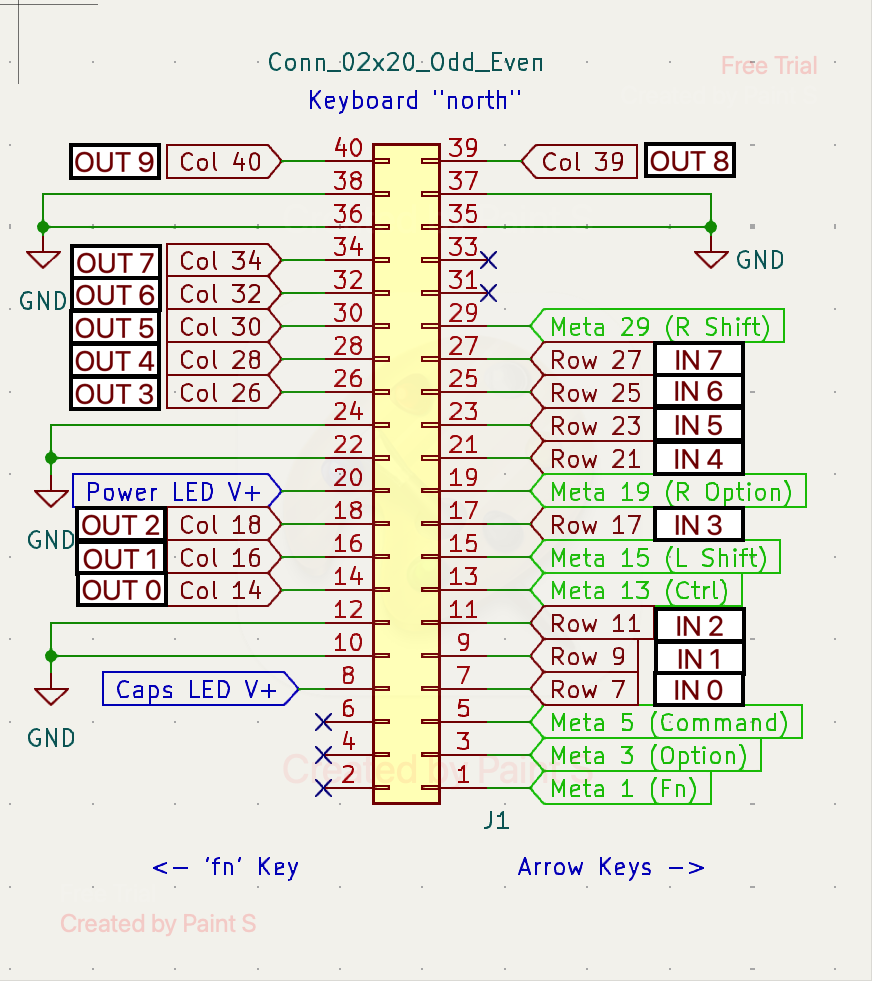
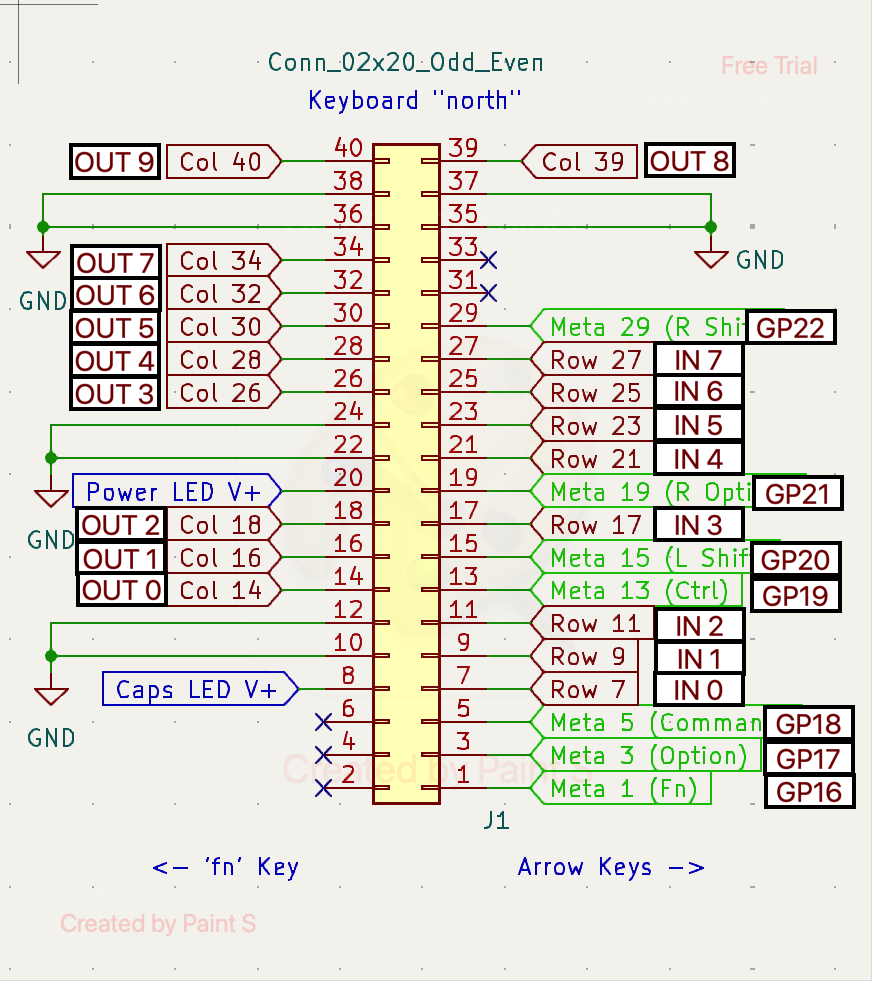
finaly keyboard works

diff --git a/pibookintosh.c b/pibookintosh.c
@@ -9,13 +9,14 @@
 /* Pin definitions */
 #define LED_PIN           GP25
 #define COL_PINS          {GP6, GP7, GP8, GP9, GP10, GP11, GP12, GP13}
-#define META_PINS         {GP14, GP15, GP16, GP17, GP18, GP19, GP20}
+#define META_PINS         {GP16, GP17, GP18, GP19, GP20, GP21, GP22}
 #define NUM_COLS          8
 #define NUM_META_KEYS     7
 
 static const pin_t column_pins[NUM_COLS] = COL_PINS;
 static const pin_t meta_pins[NUM_META_KEYS] = META_PINS;
 static matrix_row_t pibookintosh_matrix[MATRIX_ROWS] __attribute__((used));
+static matrix_row_t meta_row = 0;
 
 #define ACTIVE_HIGH true
 #define ACTIVE_LOW false
@@ -26,6 +27,7 @@ static matrix_row_t pibookintosh_matrix[MATRIX_ROWS] __attribute__((used));
 
 static uint8_t caps_lock_status = 0;
 static uint8_t power_led_status = 0;
+static bool power_led_hid_controlled = false;  // Track if LED is controlled via HID
 
 /* ===== Helper Functions ===== */
 
@@ -42,7 +44,7 @@ void pibookintosh_pre_init_kb(void) {
 }
 
 /* Read column inputs from Pico GPIO */
-static matrix_row_t read_cols(bool invert) {
+static matrix_row_t _read_cols(bool invert) {
     matrix_row_t cols = 0;
     for (uint8_t i = 0; i < NUM_COLS; i++) {
         if (gpio_read_pin(column_pins[i])) {
@@ -76,7 +78,7 @@ void pibookintosh_matrix_init(void) {
     
     // Initialize meta-key pins as inputs
     for (uint8_t i = 0; i < NUM_META_KEYS; i++) {
-        gpio_set_pin_input_low(meta_pins[i]);
+        gpio_set_pin_input_high(meta_pins[i]);
     }
     
     // Clear matrix
@@ -109,7 +111,7 @@ uint8_t pibookintosh_matrix_scan(void) {
         wait_us(30);
         
         // Read columns
-        matrix_row_t cols = read_cols(ACTIVE_HIGH);
+        matrix_row_t cols = _read_cols(ACTIVE_HIGH);
         
         // Check if state changed
         if (pibookintosh_matrix[row] != cols) {
@@ -117,15 +119,30 @@ uint8_t pibookintosh_matrix_scan(void) {
             changed = true;
         }
     }
+
+    // Scan meta keys into virtual row
+    matrix_row_t new_meta = 0;
+    for (uint8_t i = 0; i < NUM_META_KEYS; i++) {
+        if (!gpio_read_pin(meta_pins[i])) {
+            new_meta |= (1 << i);
+        }
+    }
     
-    // Blink LED periodically
-    uint32_t elapsed = timer_read32();
-    if ((elapsed / 500) % 2 == 0) {
-        gpio_write_pin_high(LED_PIN);
-        pibookintosh_set_power_led(true);
-    } else {
-        gpio_write_pin_low(LED_PIN);
-        pibookintosh_set_power_led(false);
+    if (meta_row != new_meta) {
+        meta_row = new_meta;
+        changed = true;
+    }
+
+    // Blink LED periodically (unless controlled via HID)
+    if (!power_led_hid_controlled) {
+        uint32_t elapsed = timer_read32();
+        if ((elapsed / 500) % 2 == 0) {
+            gpio_write_pin_high(LED_PIN);
+            pibookintosh_set_power_led(true);
+        } else {
+            gpio_write_pin_low(LED_PIN);
+            pibookintosh_set_power_led(false);
+        }
     }
     // Deactivate all rows
     mcp23017_write_data_a(0x00);
@@ -136,8 +153,37 @@ uint8_t pibookintosh_matrix_scan(void) {
 
 /* Get matrix row */
 uint8_t pibookintosh_matrix_get_row(uint8_t row) {
-    if (row < MATRIX_ROWS) {
+    if (row < MATRIX_ROWS - 1) {
         return pibookintosh_matrix[row];
+    } else if (row == MATRIX_ROWS - 1) {
+        return meta_row;
     }
     return 0;
+}
+
+/* Raw HID handler for LED control */
+void raw_hid_receive(uint8_t *data, uint8_t length) {
+    if (length < 2) return;
+    
+    uint8_t command = data[0];
+    uint8_t value = data[1];
+    
+    if (command == 0x01) {  // LED control command
+        power_led_hid_controlled = true;
+        if (value == 0x00) {  // LED off
+            gpio_write_pin_low(LED_PIN);
+            pibookintosh_set_power_led(false);
+        } else if (value == 0x01) {  // LED on
+            gpio_write_pin_high(LED_PIN);
+            pibookintosh_set_power_led(true);
+        }
+    } else if (command == 0x02) {  // Release HID control (return to firmware blinking)
+        power_led_hid_controlled = false;
+    }
+    
+    // Send acknowledgment back
+    uint8_t response[32] = {0};
+    response[0] = command;
+    response[1] = 0xAA;  // ACK byte
+    raw_hid_send(response, 32);
 }

diff --git a/keymaps/default/keymap.c b/keymaps/default/keymap.c
@@ -2,19 +2,35 @@
 // SPDX-License-Identifier: GPL-2.0-or-later
 
 #include QMK_KEYBOARD_H
+#include "pibookintosh.h"
 
 const uint16_t PROGMEM keymaps[][MATRIX_ROWS][MATRIX_COLS] = {
     [0] = LAYOUT(
-        KC_ESC,  KC_F2,    KC_GRV,    KC_TAB,    KC_X,    KC_S,    KC_W,    KC_2,
-        KC_NO,   KC_F3,    KC_NO,    KC_NO,    KC_C,    KC_D,    KC_E,    KC_3,
-        KC_NO,   KC_F4,    KC_CAPS,    KC_NO,    KC_V,    KC_F,    KC_R,    KC_4,
-        KC_MINS, KC_F5,    KC_LBRC,    KC_QUOT,    KC_B,    KC_G,    KC_T,    KC_5,
-        KC_NO,   KC_F6,    KC_SPC,     KC_SPC,  KC_N,    KC_H,    KC_Y, KC_6,
+        KC_ESC,  KC_BRID,    KC_GRV,    KC_TAB,    KC_X,    KC_S,    KC_W,    KC_2,
+        KC_NO,   KC_VOLD,    KC_NO,    KC_NO,    KC_C,    KC_D,    KC_E,    KC_3,
+        KC_NO,   KC_VOLU,    KC_CAPS,    KC_NO,    KC_V,    KC_F,    KC_R,    KC_4,
+        KC_MINS, KC_NUM_LOCK,    KC_LBRC,    KC_QUOT,    KC_B,    KC_G,    KC_T,    KC_5,
+        KC_NO,   KC_MUTE,    KC_SPC,     KC_SPC,  KC_N,    KC_H,    KC_Y, KC_6,
         KC_NO,   KC_F7,    KC_NO,    KC_NO,   KC_M,    KC_J,    KC_U,   KC_7,
         KC_ENTER, KC_F10, KC_EQL,   KC_RBRC,   KC_SLSH, KC_SCLN, KC_P,   KC_0,
-        KC_F11,   KC_F1,   KC_F12,   KC_DEL,   KC_Z,    KC_A,    KC_Q,   KC_1,
-        KC_ENTER,   KC_F8,   KC_RIGHT,   KC_LEFT,   KC_COMM, KC_K,    KC_I,   KC_8,//?
-        KC_BSLS,   KC_F9,   KC_UP,   KC_DOWN,    KC_DOT,  KC_L,    KC_O,   KC_9//?
+        KC_F11,   KC_BRIU,   KC_F12,   KC_DEL,   KC_Z,    KC_A,    KC_Q,   KC_1,
+        KC_ENTER,   KC_F8,   KC_RIGHT,   KC_LEFT,   KC_COMM, KC_K,    KC_I,   KC_8,
+        KC_BSLS,   KC_F9,   KC_UP,   KC_DOWN,    KC_DOT,  KC_L,    KC_O,   KC_9,
+        MO(1), KC_LALT, KC_LGUI, KC_LCTL, KC_LSFT, KC_LALT, KC_RSFT, KC_NO  // Last row = meta keys
+    ),
+    
+    [1] = LAYOUT(
+        KC_TRNS, KC_F2,  KC_TRNS,   KC_TRNS,   KC_TRNS, KC_TRNS, KC_TRNS, KC_TRNS,
+        KC_TRNS, KC_F3,  KC_TRNS,   KC_TRNS,   KC_TRNS, KC_TRNS, KC_TRNS, KC_TRNS,
+        KC_TRNS, KC_F4,  KC_TRNS,   KC_TRNS,   KC_TRNS, KC_TRNS, KC_TRNS, KC_TRNS,
+        KC_TRNS, KC_F5,  KC_TRNS,   KC_TRNS,   KC_TRNS, KC_TRNS, KC_TRNS, KC_TRNS,
+        KC_TRNS, KC_F6,  KC_TRNS,   KC_TRNS,   KC_TRNS, KC_TRNS, KC_TRNS, KC_TRNS,
+        KC_TRNS, KC_TRNS,  KC_TRNS,   KC_TRNS,   KC_TRNS, KC_TRNS, KC_TRNS, KC_TRNS,
+        KC_TRNS, KC_TRNS,  KC_TRNS,   KC_TRNS,   KC_TRNS, KC_TRNS, KC_TRNS, KC_TRNS,
+        KC_TRNS, KC_TRNS,  KC_TRNS,   KC_TRNS,   KC_TRNS, KC_TRNS, KC_TRNS, KC_TRNS,
+        KC_TRNS, KC_F1,  KC_TRNS,   KC_TRNS,   KC_TRNS, KC_TRNS, KC_TRNS, KC_TRNS,
+        KC_TRNS, KC_TRNS,  KC_TRNS,   KC_TRNS,   KC_TRNS, KC_TRNS, KC_TRNS, KC_TRNS,
+        KC_TRNS, KC_TRNS,  KC_TRNS,   KC_TRNS,   KC_TRNS, KC_TRNS, KC_TRNS, KC_TRNS
     )
 };
                                                             

diff --git a/config.h b/config.h
@@ -8,10 +8,12 @@
 
 /* Custom matrix with MCP23017 expander */
 #define CUSTOM_MATRIX_ENABLE
-#define MATRIX_ROWS 10
+#define MATRIX_ROWS 11 // 10+1 for meta key row
 #define MATRIX_COLS 8
 
 /* I2C settings for MCP23017 */
 #define I2C_DRIVER I2CD1
 #define I2C1_SDA_PIN GP26
-#define I2C1_SCL_PIN GP27                                                                                   
+#define I2C1_SCL_PIN GP27
+
+#define FORCE_NKRO

diff --git a/qmk_callbacks.c b/qmk_callbacks.c
@@ -6,9 +6,6 @@
 #include "mcp23017.h"
 #include "pibookintosh.h"
 
-/* Pin definitions for LED */
-#define LED_PIN GP25
-
 /* ===== QMK Callbacks ===== */
 
 /**

diff --git a/pibookintosh.h b/pibookintosh.h
@@ -13,6 +13,7 @@ void pibookintosh_pre_init_kb(void);
 void pibookintosh_matrix_init(void);
 uint8_t pibookintosh_matrix_scan(void);
 uint8_t pibookintosh_matrix_get_row(uint8_t row);
+uint8_t pibookintosh_get_mods(void);
 
 /* LED helpers */
 void pibookintosh_set_power_led(bool on);